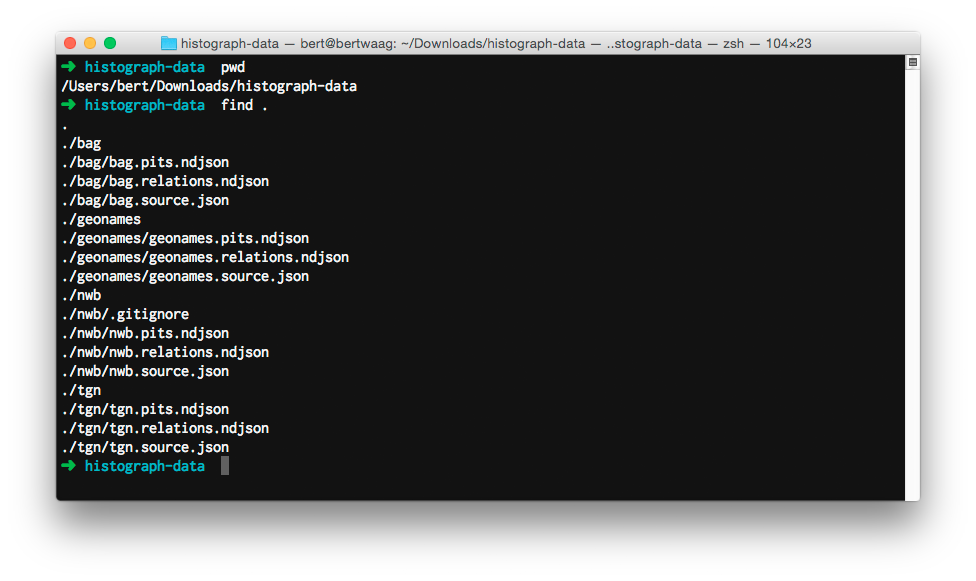
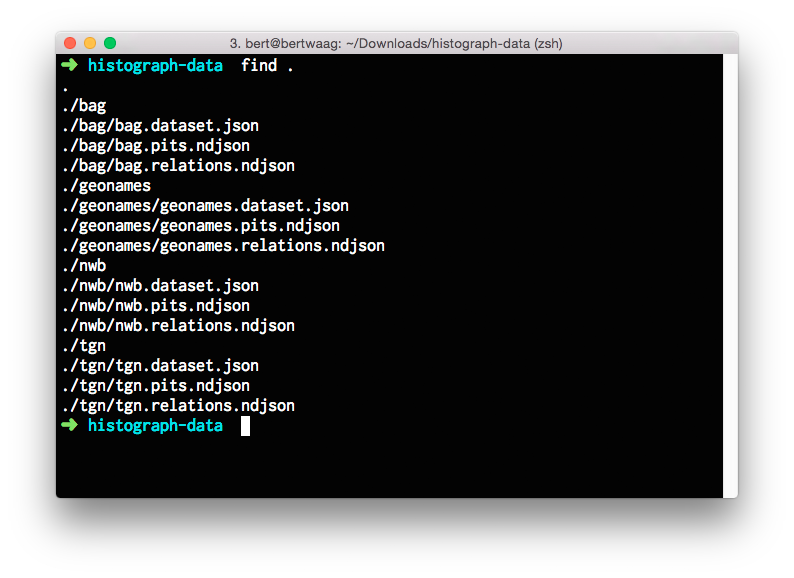
source > dataset

Changed region(s): [[0.0302, 0.0623, 0.8463, 0.872], [0.9068, 0.0934, 0.9673, 0.872]]

diff --git a/index.js b/index.js
@@ -1,9 +1,9 @@
 var fs = require('fs');
-var config = require(process.env.HISTOGRAPH_CONFIG);
 var path = require('path');
-var _ = require('underscore');
 var request = require('request');
 var async = require('async');
+var _ = require('underscore');
+var config = require(process.env.HISTOGRAPH_CONFIG);
 
 var clear = process.argv[2] === '--clear';
 var args = process.argv.slice(clear ? 3 : 2);
@@ -17,49 +17,49 @@ require('colors');
 
 async.mapSeries(config.import.dirs, function(dataDir, callback) {
   fs.readdir(dataDir, function(err, directories) {
-    var directories = directories.filter(function(dir) {
+    directories = directories.filter(function(dir) {
       if (dir === '.' || ignoredDirs.indexOf(dir) > -1) {
         return false;
       } else {
-        return (args.length === 0 || args.indexOf(dir) > -1)
+        return (args.length === 0 || args.indexOf(dir) > -1);
       }
     }).map(function(dir) {
       return {
         id: dir,
         dir: path.join(dataDir, dir)
       };
-    }).filter(function(source) {
-      var stat = fs.statSync(source.dir)
+    }).filter(function(dataset) {
+      var stat = fs.statSync(dataset.dir);
       return stat.isDirectory();
     });
     callback(null, directories);
   });
-}, function(err, sources) {
-  async.eachSeries(_.flatten(sources), function(source, callback) {
-    importSourceFromDir(source, function() {
+}, function(err, datasets) {
+  async.eachSeries(_.flatten(datasets), function(dataset, callback) {
+    importDatasetFromDir(dataset, function() {
       callback();
     });
   });
 });
 
-function importSourceFromDir(source, callback) {
+function importDatasetFromDir(dataset, callback) {
   if (clear) {
-    deleteSource(source.id, function(err) {
+    deleteDataset(dataset.id, function(err) {
       if (err) {
-        console.error('Deleting source failed: '.red + err);
+        console.error('Deleting dataset failed: '.red + err);
       } else {
-        console.error('Deleted source: '.green + source.id);
+        console.error('Deleted dataset: '.green + dataset.id);
       }
       callback();
     });
   } else {
-    createSource(source, function(err) {
+    createDataset(dataset, function(err) {
       if (err) {
-        console.error(('Creating source ' + source.id + ' failed: ').red + JSON.stringify(err));
+        console.error(('Creating dataset ' + dataset.id + ' failed: ').red + JSON.stringify(err));
         callback();
       } else {
-        console.error('Created or found source: '.green + source.id);
-        uploadData(source, function() {
+        console.error('Created or found dataset: '.green + dataset.id);
+        uploadData(dataset, function() {
           callback();
         });
       }
@@ -67,12 +67,12 @@ function importSourceFromDir(source, callback) {
   }
 }
 
-function createSource(source, callback) {
-  var filename = path.join(source.dir, source.id + '.source.json');
+function createDataset(dataset, callback) {
+  var filename = path.join(dataset.dir, dataset.id + '.dataset.json');
   // TODO: check if file exists!
 
   if (fs.existsSync(filename)) {
-    request(apiUrl('sources'), {
+    request(apiUrl('datasets'), {
       method: 'POST',
       headers: {'content-type': 'application/json'},
       body: fs.readFileSync(filename, 'utf8')
@@ -86,12 +86,12 @@ function createSource(source, callback) {
       }
     });
   } else {
-    callback('source meta data not found');
+    callback('dataset JSON file `' + dataset.id + '.dataset.json` not found');
   }
 }
 
-function deleteSource(sourceId, callback) {
-  request(apiUrl('sources/' + sourceId), {
+function deleteDataset(datasetId, callback) {
+  request(apiUrl('datasets/' + datasetId), {
     method: 'DELETE'
   }, function(err, res, body) {
     if (err) {
@@ -110,21 +110,21 @@ function apiUrl(url) {
     config.api.host + ':' + config.api.internalPort + '/' + url;
 }
 
-function uploadData(source, callback) {
+function uploadData(dataset, callback) {
   var files = [
     'pits',
     'relations'
   ];
 
   async.eachSeries(files, function(file, callback) {
-    var filename = path.join(source.dir, source.id + '.' + file + '.ndjson');
+    var filename = path.join(dataset.dir, dataset.id + '.' + file + '.ndjson');
     var base = path.basename(filename);
 
     fs.exists(filename, function(exists) {
       if (exists) {
         var formData = {file: fs.createReadStream(filename)};
 
-        request.put(apiUrl('sources/' + source.id + '/' + file), {
+        request.put(apiUrl('datasets/' + dataset.id + '/' + file), {
           formData: formData,
           headers: {'content-type': 'application/x-ndjson'}
         }, function(err, res, body) {
@@ -147,7 +147,7 @@ function uploadData(source, callback) {
                 return '\t' + line;
               }).join('\n'));
             } else {
-              console.log(message.message)
+              console.log(message.message);
             }
           }
           callback();

diff --git a/README.md b/README.md
@@ -1,6 +1,6 @@
 # histograph-import
 
-histograph-import can bulk import source data from a directory containing multiple Histograph source data files.
+histograph-import can bulk import datasets from one or more directories containing multiple Histograph datasets.
 
 ## Installation
 
@@ -30,28 +30,32 @@ To use histograph-import, `histograph.json` should contain a section named `impo
 }
 ```
 
-histograph-import expects each directory to contain a set of subdirectories containing data for one dataset. Each dataset subdirectory should contain a JSON file containing dataset metadata, and NDJSON files containing PITs, relations, or both. __Important__: histograph-import expects files to adhere to the following naming convention - files in the directory `dataset1` should be named `dataset1.source.json`, `dataset1.pits.ndjson` and `dataset1.relations.ndjson`.
+histograph-import expects each directory to contain a set of subdirectories containing data for one dataset. Each dataset subdirectory should contain a JSON file containing dataset metadata, and NDJSON files containing PITs, relations, or both. __Important__: histograph-import expects files to adhere to the following naming convention - files in the directory `dataset1` should be named `dataset1.dataset.json`, `dataset1.pits.ndjson` and `dataset1.relations.ndjson`.
 
 ![](dirs.png)
 
-Running `histograph-import` will import PITs and relations from all subdirectories of directory set in the configuration file. You can also run `node index.js <source1> <source2> ...` to only import a selection of data sources into Histograph. For example, you can run:
+Running `histograph-import` will import PITs and relations from all subdirectories of directory set in the configuration file. You can also run `node index.js <dataset1> <dataset2> ...` to only import a selection of data datasets into Histograph. For example, you can run:
 
     histograph-import tgn
 
 This will import only data from the subdirectory `tgn` into Histograph.
 
-## Remove source(s) from Histograph
+For information about the installation and usage of all of Histograph's components, see [histograph.io](http://histograph.io).
 
-histograph-import can also remove sources from Histograph.
+## Remove dataset(s) from Histograph
 
-To clear __all__ sources:
+histograph-import can also remove datasets from Histograph.
+
+To clear __all__ datasets:
 
     histograph-import --clear
 
-To clear a selection of sources, run
+To clear a selection of datasets, run
 
-    histograph-import --clear <source1> <source2> ...
+    histograph-import --clear <dataset1> <dataset2> ...
 
 ## License
+
+Copyright (C) 2015 [Waag Society](http://waag.org).
 
 The source for Histograph is released under the GNU General Public License as published by the Free Software Foundation, either version 3 of the License, or (at your option) any later version.
